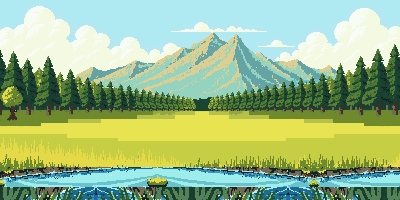
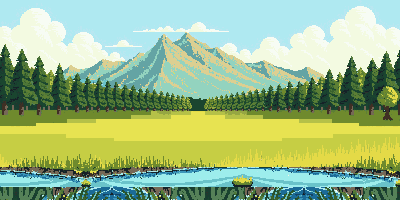
Addendum v3.2 §F 1–4: auditoria de luz, espelho da placa, recessão do maciço, ruído e água aferida
§F.1 — auditar_luz.py mede a luz por banda (tabela): montanhas por pares
horizontais tan/teal (médias por flanco e gradiente médio se CANCELAM em
listras diagonais — registrado no código), copas/juncos por dobra de
período alinhada à densidade, troncos/pedra/nuvens por metades de blob.
Resultado: montanhas razão 1.30, floresta ΔL −7.8, troncos −26.2, pedra
−4.8 — a placa INTEIRA iluminada pela ESQUERDA, não só a montanha.

§F.2 — remédio na granularidade que a auditoria revelou: espelho GLOBAL da
placa (véu não serve para primeiro plano; flip por banda racha as árvores
que cruzam fatias). Documentado em placa_base.json; placa_modelo.png
preserva o original. Pós-espelho, tabela sem banda vermelha (montanhas
0.64 ✅, troncos +24.3 ✅). Efeito favorável previsto no addendum: o cume
sai do centro. E o véu de recessão atmosférica (tentativa 1, valores
MEDIDOS: horizonte 0.491/0.742/0.701, meio-tom 0.779) entra no maciço
central via camada extraída (derivar_vida.py), pelo motivo próprio dele:
os cremes puxavam a montanha para frente. Serras laterais já nascem em
bruma — sem véu redundante.

§F.3 — ruído de quebra de estrato fundido no valor_banda (um material por
CanvasItem): blocos de 2px, sem TIME, só no campo (amplitude 0.045).

§F.4 — água aferida por medida: das 4 cores cicladas, duas formam fitas
de 8–14px (fluxo) e duas eram dispersas (traços de 3px e pontos de 1.5px
= pipoca). Ciclo reduzido a 3 cores; azul-escuro estático — corpo não
pulsa. Decisão documentada no shader.
[…]

diff --git a/ferramentas/cenario_v2/auditar_luz.py b/ferramentas/cenario_v2/auditar_luz.py
@@ -1,0 +1,214 @@
+#!/usr/bin/env python3
+"""Auditoria de LUZ da placa base (addendum v3.2 §B) — diagnóstico de $0.
+
+O SUFIXO_LUZ congelado diz sol no canto superior-DIREITO. Para cada banda,
+mede-se de que lado dos volumes está o claro:
+
+  montanhas  — flanco esquerdo vs direito de cada maciço (componentes do
+               mask de rocha), L médio por lado
+  nuvens     — metade esquerda vs direita de cada blob extraído
+  floresta   — perfil médio da árvore (dobra pelo período detectado por
+               autocorrelação): posição do realce vs centro da copa
+  juncos     — pixels claros (pontas) vs escuros por touceira do motivo
+  troncos    — coluna esquerda vs direita de cada tronco marrom
+  pedras     — metade esquerda vs direita do blob da pedra do rio
+
+Veredito por banda: DIREITA (coerente com o estilo congelado), ESQUERDA
+(contradiz) ou AMBÍGUO (|Δ| pequeno). Também mede cor_horizonte e meio_tom
+para o shader de recessão (§B: "não chutar — medir").
+"""
+
+from pathlib import Path
+
+import numpy as np
+from PIL import Image
+
+RAIZ = Path(__file__).resolve().parent.parent.parent
+CEN = RAIZ / "reino-por-conquista-godot" / "assets_v2" / "cenario"
+
+LIMIAR_AMBIGUO = 4.0        # |ΔL| < isto = sem direcionalidade legível
+
+
+def L(rgb: np.ndarray) -> np.ndarray:
+    return (0.2126 * rgb[..., 0] + 0.7152 * rgb[..., 1]
+            + 0.0722 * rgb[..., 2]).astype(float)
+
+
+def _rotular(mask: np.ndarray) -> tuple[np.ndarray, int]:
+    H, W = mask.shape
+    rot = np.zeros((H, W), int)
+    n = 0
+    for i in range(H):
+        for j in range(W):
+            if mask[i, j] and rot[i, j] == 0:
+                n += 1
+                pilha = [(i, j)]
+                rot[i, j] = n
+                while pilha:
+                    a, b = pilha.pop()
+                    for da, db in ((1, 0), (-1, 0), (0, 1), (0, -1)):
+                        na, nb = a + da, b + db
+                        if 0 <= na < H and 0 <= nb < W and \
+                                mask[na, nb] and rot[na, nb] == 0:
+                            rot[na, nb] = n
+                            pilha.append((na, nb))
+    return rot, n
+
+
+def _veredito(dL: float) -> str:
+    if abs(dL) < LIMIAR_AMBIGUO:
+        return "AMBÍGUO"
+    return "DIREITA ✅" if dL > 0 else "ESQUERDA 🔴"
+
+
+def _lados(lum: np.ndarray, mask: np.ndarray, rot: np.ndarray,
+           comp: int) -> float:
+    """ΔL = (metade direita − metade esquerda) do componente."""
+    ys, xs = np.nonzero(rot == comp)
+    cx = xs.mean()
+    esq = lum[ys[xs < cx], xs[xs < cx]]
+    dire = lum[ys[xs >= cx], xs[xs >= cx]]
+    if len(esq) == 0 or len(dire) == 0:
+        return 0.0
+    return float(dire.mean() - esq.mean())
+
+
+def montanhas(placa: np.ndarray) -> tuple[str, str]:
+    """Pares horizontais tan/teal — a medida que funciona em listras.
+
+    Médias por flanco e gradiente médio FALHARAM aqui (registrado): o
+    maciço é listrado em diagonais tan/teal, então flanco e gradiente se
+    cancelam; e o teal sombrio é da mesma família do céu com bruma, o que
+    fura qualquer classificador céu-vs-rocha. O que sobrevive à listra:
+    contar pares (x, x+3) — claro à esquerda do escuro = espigões com a
+    face direita na sombra = sol pela ESQUERDA.
+    """
+    faixa = placa[25:75, 95:265]
+    r, g, b = (faixa[..., k].astype(int) for k in range(3))
+    lum = L(faixa)
+    tan = (r - b > 30)
+    teal = (b >= r - 10) & (lum < 195) & ~tan
+    d = 3
+    tan_teal = int((tan[:, :-d] & teal[:, d:]).sum())   # claro à esq
+    teal_tan = int((teal[:, :-d] & tan[:, d:]).sum())   # claro à dir
+    razao = tan_teal / max(1, teal_tan)
+    if 0.87 <= razao <= 1.15:
+        v = "AMBÍGUO"
+    else:
+        v = "DIREITA ✅" if razao < 1.0 else "ESQUERDA 🔴"
+    return v, (f"pares claro-esq {tan_teal} vs claro-dir {teal_tan} "
+               f"(razão {razao:.2f})")
+
+
+def nuvens_bandas() -> tuple[str, str]:
+    dLs = []
+    for nome in ("nuvens_lenta", "nuvens_rapida"):
+        arq = CEN / "base" / "derivados" / f"{nome}.png"
+        rgba = np.array(Image.open(arq).convert("RGBA"))
+        mask = rgba[..., 3] > 0
+        lum = L(rgba[..., :3].astype(int))
+        rot, n = _rotular(mask)
+        tam = np.bincount(rot.ravel())[1:]
+        for comp in range(1, n + 1):
+            if tam[comp - 1] >= 40:
+                dLs.append(_lados(lum, mask, rot, comp))
+    media = float(np.mean(dLs))
+    return _veredito(media), (f"{len(dLs)} blobs, ΔL médio {media:+.1f} "
+                              f"(mín {min(dLs):+.1f}, máx {max(dLs):+.1f})")
+
+
+def _dobrar(faixa: np.ndarray, mask: np.ndarray) -> tuple[int, float]:
+    """Período por autocorrelação + ΔL alinhado ao CENTRO do elemento.
+
+    A fase da dobra é arbitrária — comparar o pico de L com per/2 sem
+    alinhar mede a fase, não a luz. Alinha-se rolando a dobra para que o
+    pico de DENSIDADE da máscara (o corpo do elemento) fique no centro;
+    aí sim: L médio do lado direito − lado esquerdo do corpo.
+    """
+    lum = L(faixa)
+    with np.errstate(invalid="ignore"):
+        col = np.nanmean(np.where(mask, lum, np.nan), axis=0)
+    col = np.nan_to_num(col, nan=np.nanmean(col[~np.isnan(col)]))
+    dens = mask.sum(axis=0).astype(float)
+    c0 = col - col.mean()
+    ac = np.correlate(c0, c0, "full")[len(c0) - 1:]
+    per = int(np.argmax(ac[8:80]) + 8)          # período plausível 8..80px
+    reps = len(col) // per
+    dobra_l = col[:reps * per].reshape(reps, per).mean(axis=0)
+    dobra_d = dens[:reps * per].reshape(reps, per).mean(axis=0)
+    rolo = per // 2 - int(np.argmax(dobra_d))
+    dobra_l = np.roll(dobra_l, rolo)
+    meio = per // 2
+    dL = float(dobra_l[meio:].mean() - dobra_l[:meio].mean())
+    return per, dL
+
+
+def floresta(placa: np.ndarray) -> tuple[str, str]:
+    faixa = placa[58:105]
+    r, g, b = (faixa[..., k].astype(int) for k in range(3))
+    copa = (g >= r) & (g > b)                   # verdes das copas
+    per, dL = _dobrar(faixa, copa)
+    return _veredito(dL), f"período {per}px, realce {'dir' if dL > 0 else 'esq'} ΔL={dL:+.1f}"
+
+
+def juncos(placa: np.ndarray) -> tuple[str, str]:
+    faixa = placa[182:198]
+    r, g, b = (faixa[..., k].astype(int) for k in range(3))
+    junco = ~((b > 120) & (b > r + 20)) & (g > r)
+    per, dL = _dobrar(faixa, junco)
+    return _veredito(dL), f"período {per}px, realce {'dir' if dL > 0 else 'esq'} ΔL={dL:+.1f}"
+
+
+def troncos(placa: np.ndarray) -> tuple[str, str]:
+    faixa = placa[92:111]
+    r, g, b = (faixa[..., k].astype(int) for k in range(3))
+    lum = L(faixa)
+    tronco = (r > g) & (g >= b) & (r - b > 25) & (r < 200)
+    rot, n = _rotular(tronco)
+    tam = np.bincount(rot.ravel())[1:]
+    dLs = [_lados(lum, tronco, rot, c)
+           for c in range(1, n + 1) if tam[c - 1] >= 12]
+    media = float(np.mean(dLs))
+    return _veredito(media), f"{len(dLs)} troncos, ΔL médio {media:+.1f}"
+
+
+def pedras(placa: np.ndarray) -> tuple[str, str]:
+    # a pedra musgosa do rio (única pedra franca da placa)
+    faixa = placa[176:196, 40:100]   # pedra espelhada junto com a placa
+    r, g, b = (faixa[..., k].astype(int) for k in range(3))
+    lum = L(faixa)
+    pedra = ~((b > 120) & (b > r + 20))
+    rot, n = _rotular(pedra)
+    tam = np.bincount(rot.ravel())[1:]
+    comp = int(np.argmax(tam)) + 1
+    dL = _lados(lum, pedra, rot, comp)
+    return _veredito(dL), f"blob {tam[comp - 1]}px, ΔL={dL:+.1f}"
+
+
+def medidas_recessao(placa: np.ndarray) -> None:
+    faixa = placa[0:78]
+    r, g, b = (faixa[..., k].astype(int) for k in range(3))
+    lum = L(faixa)
+    nuvem = (r > 170) & (g > 180) & (b - r < 45) & (r - b < 30)
+    ceu = (b >= r + 30) & (lum > 150) & ~nuvem
+    verde = (g >= r) & (g > b) & ~ceu
+    rocha = ~(nuvem | ceu | verde)
+    horiz = faixa[60:75][ceu[60:75]]
+    cor = horiz.reshape(-1, 3).mean(axis=0) / 255.0
+    meio = float(lum[rocha].mean() / 255.0)
+    print(f"\n  medidas p/ recessão (§B, medir não chutar):")
+    print(f"    cor_horizonte = vec3({cor[0]:.3f}, {cor[1]:.3f}, {cor[2]:.3f})")
+    print(f"    meio_tom      = {meio:.3f}")
+
+
+if __name__ == "__main__":
+    placa = np.array(Image.open(
+        CEN / "base" / "placa_base.png").convert("RGB"))
+    print("AUDITORIA DE LUZ — sol congelado: superior-DIREITO\n")
+    print(f"  {'banda':<12} {'veredito':<12} detalhe")
+    for nome, fn in (("montanhas", montanhas), ("nuvens", nuvens_bandas),
+                     ("floresta", floresta), ("juncos", juncos),
+                     ("troncos", troncos), ("pedras", pedras)):
+        v, det = fn(placa) if nome != "nuvens" else fn()
+        print(f"  {nome:<12} {v:<12} {det}")
+    medidas_recessao(placa)

diff --git a/ferramentas/cenario_v2/derivar_vida.py b/ferramentas/cenario_v2/derivar_vida.py
@@ -25,9 +25,10 @@ SAIDA = CEN / "base" / "derivados"
 CEU_FIM = 47                 # bandas: montanhas começam em 47 — acima é só céu
 MARGEM_TOPO, MARGEM_FIM = 180, 200   # topos dos juncos invadem o fim do rio
 
-# janelas de 48px medidas na placa (densidade de junco por bloco):
-TOUCEIRAS = [(0, False), (130, False), (150, True), (340, False), (352, True)]
-CLAREIRA_X = 80              # bloco mais esparso do motivo
+# janelas de 48px medidas na placa (densidade de junco por bloco).
+# A placa foi ESPELHADA (v3.2 §B) — janelas espelhadas junto: x' = 352 − x.
+TOUCEIRAS = [(352, False), (222, False), (202, True), (12, False), (0, True)]
+CLAREIRA_X = 272             # bloco mais esparso do motivo (era 80)
 
 
 def _rotular(mask: np.ndarray) -> tuple[np.ndarray, int]:
@@ -111,8 +112,54 @@ def margem(placa: np.ndarray) -> None:
     print("  🌾 margem: 5 touceiras RGBA + 1 clareira RGB")
 
 
+def fundo(placa: np.ndarray) -> None:
+    """Extrai o maciço central como camada RGBA — o CARREGADOR do véu de
+    recessão atmosférica (v3.2 §B tentativa 1). A camada é desenhada POR
+    CIMA da fatia intacta com o shader de recessão: máscara imperfeita
+    não abre buraco, só deixa de recessar um pixel ou outro.
+
+    A DIREÇÃO da luz já foi corrigida pelo espelho global da placa (a
+    auditoria mediu luz pela esquerda em 4 bandas — flip por banda
+    racharia as árvores que cruzam fatias). O véu aqui cuida do outro
+    problema medido: os cremes do maciço entre os valores mais claros do
+    quadro, puxando a montanha para FRENTE.
+
+    As serras laterais ficam assadas no fundo de propósito: já nascem em
+    bruma, sem tan, sem direcionalidade medível — véu nelas é redundante.
+    """
+    faixa = placa[0:78]
+    r, g, b = (faixa[..., k].astype(int) for k in range(3))
+    lum = (0.2126 * r + 0.7152 * g + 0.0722 * b)
+    nuvem = (r > 170) & (g > 180) & (b - r < 45) & (r - b < 30)
+
+    # crista: primeiro pixel "não-céu" descendo do topo, nas linhas 0..55
+    # onde o céu ainda é claro (L>195). O tan é inequívoco; os CUMES teal
+    # (família do céu com bruma) entram pelo teto de luminância.
+    escuro = (lum < 195) & ~nuvem
+    crista = np.full(400, 999)
+    for x in range(88, 272):
+        col = np.nonzero(escuro[:55, x])[0]
+        if len(col):
+            crista[x] = col.min()
+    xs_ok = np.nonzero(crista < 999)[0]
+    for x in range(xs_ok.min(), xs_ok.max() + 1):
+        if crista[x] == 999:
+            viz = crista[max(0, x - 6):x + 7]
+            crista[x] = viz[viz < 999].min() if (viz < 999).any() else 999
+    arvore = (g >= r) & (g > b) & (g - b > 12) & (lum < 160)
+    maciço = np.zeros_like(escuro)
+    for x in range(400):
+        if crista[x] < 999:
+            maciço[max(0, crista[x] - 1):78, x] = True
+    maciço &= ~arvore & ~nuvem
+    rgba = np.dstack([faixa, (maciço * 255).astype(np.uint8)])
+    Image.fromarray(rgba, "RGBA").save(SAIDA / "montanha_central.png")
+    print(f"  ⛰  maciço {int(maciço.sum())}px (carregador do véu de recessão)")
+
+
 if __name__ == "__main__":
     placa = np.array(Image.open(CEN / "base" / "placa_base.png").convert("RGB"))
     nuvens(placa)
     margem(placa)
+    fundo(placa)
     print(f"✅ derivados em {SAIDA}")
